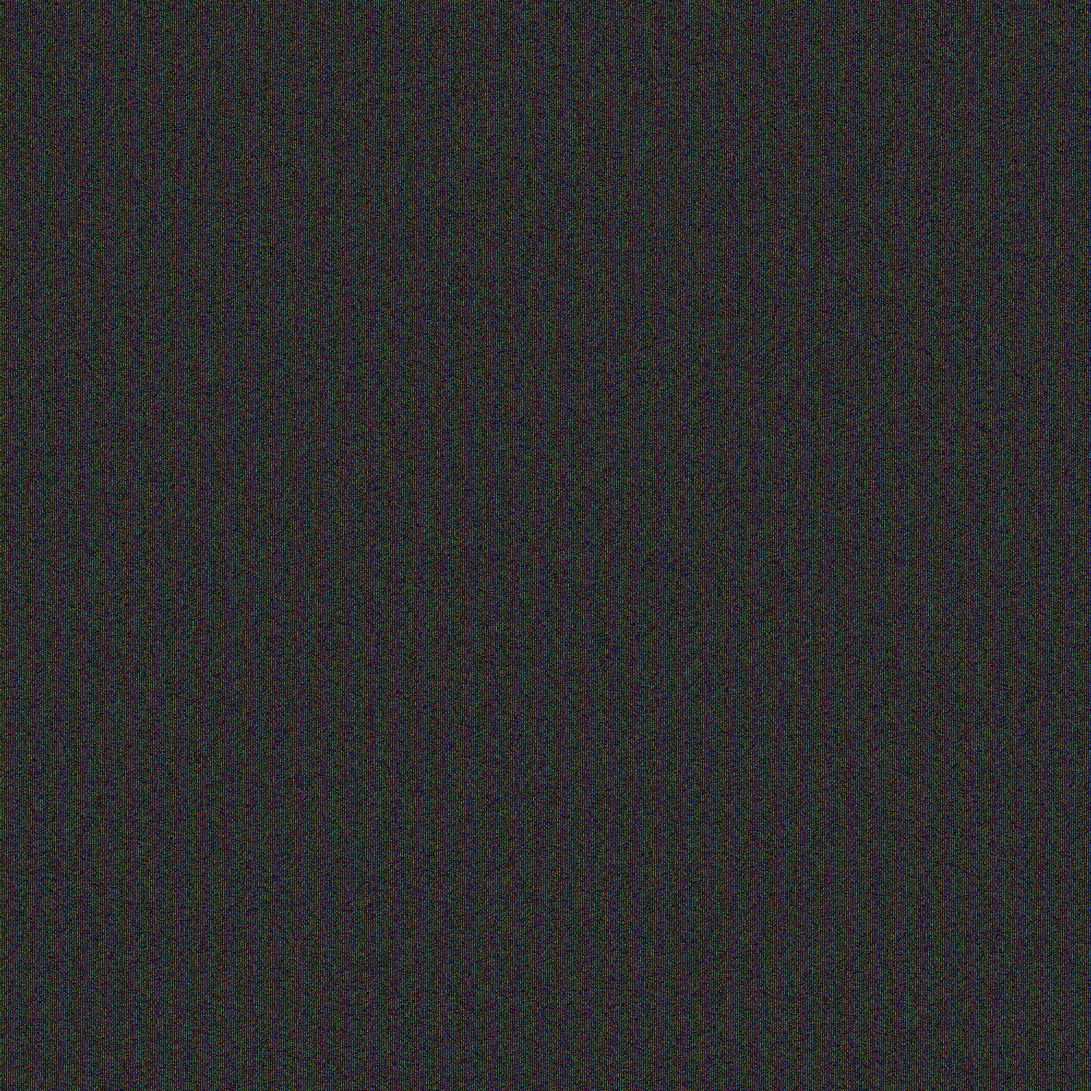
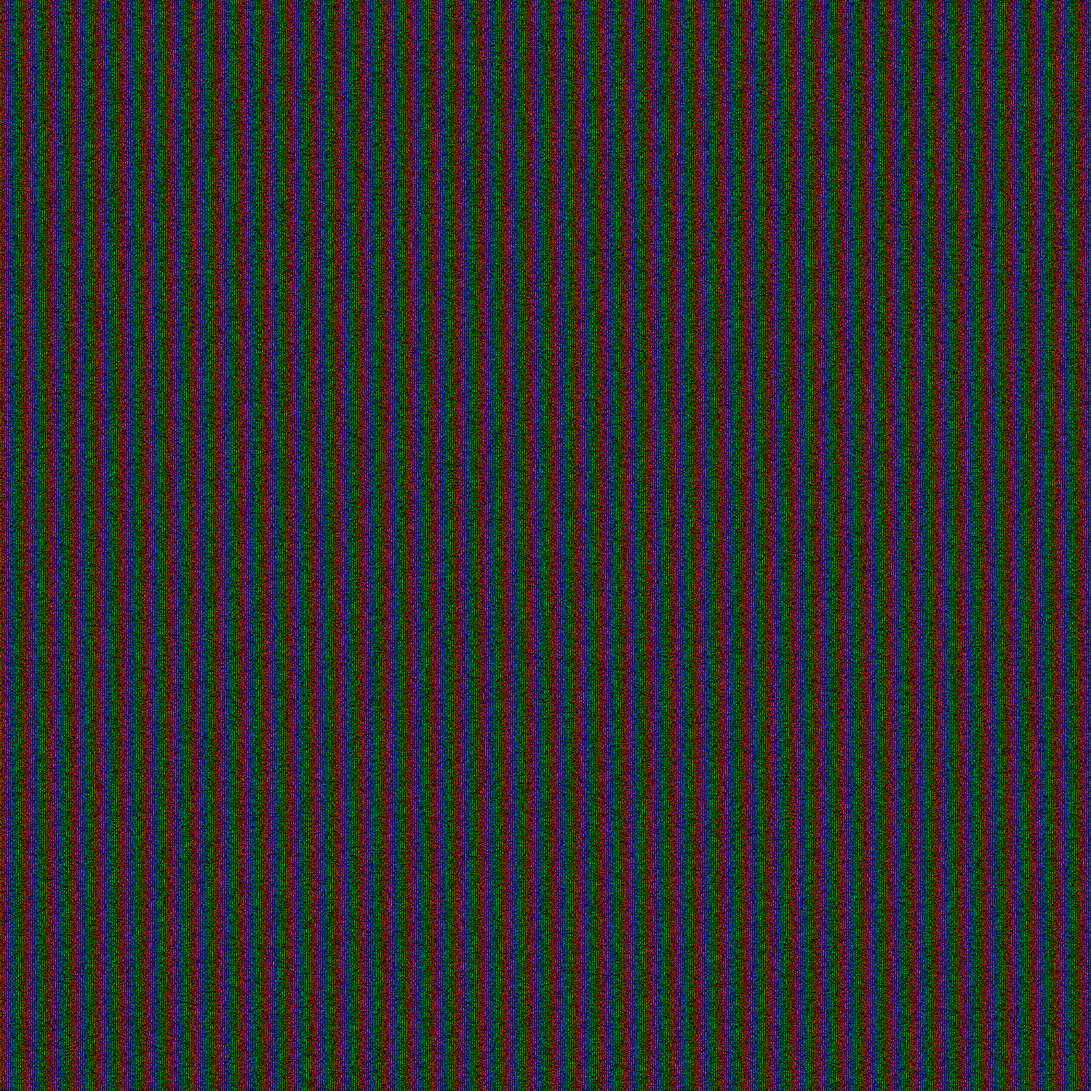
updated not succesful endocing with and and decoding with or

diff --git a/mainORver.py b/mainORver.py
@@ -132,17 +132,10 @@ def encode_image_2(
                             255 if x % 3 == 2 else 0,
                         )
                         # AND the encoded pixel from first encode image with the tile pixel
-                        encoded_pixel_from_im_1_inverse = tuple(
-                            np.array((255, 255, 255))
-                            - np.array(encoded_pixel_from_im_1)
-                        )
-                        # new_pixel = tuple(
-                        #     np.array(encoded_pixel_from_im_1) & np.array(tile_pixel)
-                        # )
                         new_pixel = tuple(
-                            np.array(encoded_pixel_from_im_1_inverse)
-                            & np.array(tile_pixel)
+                            np.array(encoded_pixel_from_im_1) & np.array(tile_pixel)
                         )
+
                         tile.putpixel((i, j), new_pixel)
                 encoded_image_2.paste(tile, (x * 2, y * 2))
             else:
@@ -173,22 +166,9 @@ def decode_images(encoded_image_1, encoded_image_2):
         for y in range(height):
             pixel_color1 = encoded_image_1.getpixel((x, y))
             pixel_color2 = encoded_image_2.getpixel((x, y))
-            # pixel_color2_inverse = tuple(
-            #     np.array((255, 255, 255)) - np.array(pixel_color2)
-            # )
+
             or_color = tuple(np.array(pixel_color1) | np.array(pixel_color2))
-            # pixel_color1_inverse = tuple(
-            #     np.array((255, 255, 255)) - np.array(pixel_color1)
-            # )
-            # pixel_color2_inverse = tuple(
-            #     np.array((255, 255, 255)) - np.array(pixel_color2)
-            # )
-            # or_color_2 = tuple(
-            #     np.array(pixel_color1_inverse) | np.array(pixel_color2_inverse)
-            # )
-            # or_color_2 = tuple(np.array((255, 255, 255)) - np.array(or_inverse_color))
-            # decoded_image.putpixel((x, y), or_inverse_color)
-            # decoded_image.putpixel((x, y), or_color_2)
+
             decoded_image.putpixel((x, y), or_color)
 
     return decoded_image
